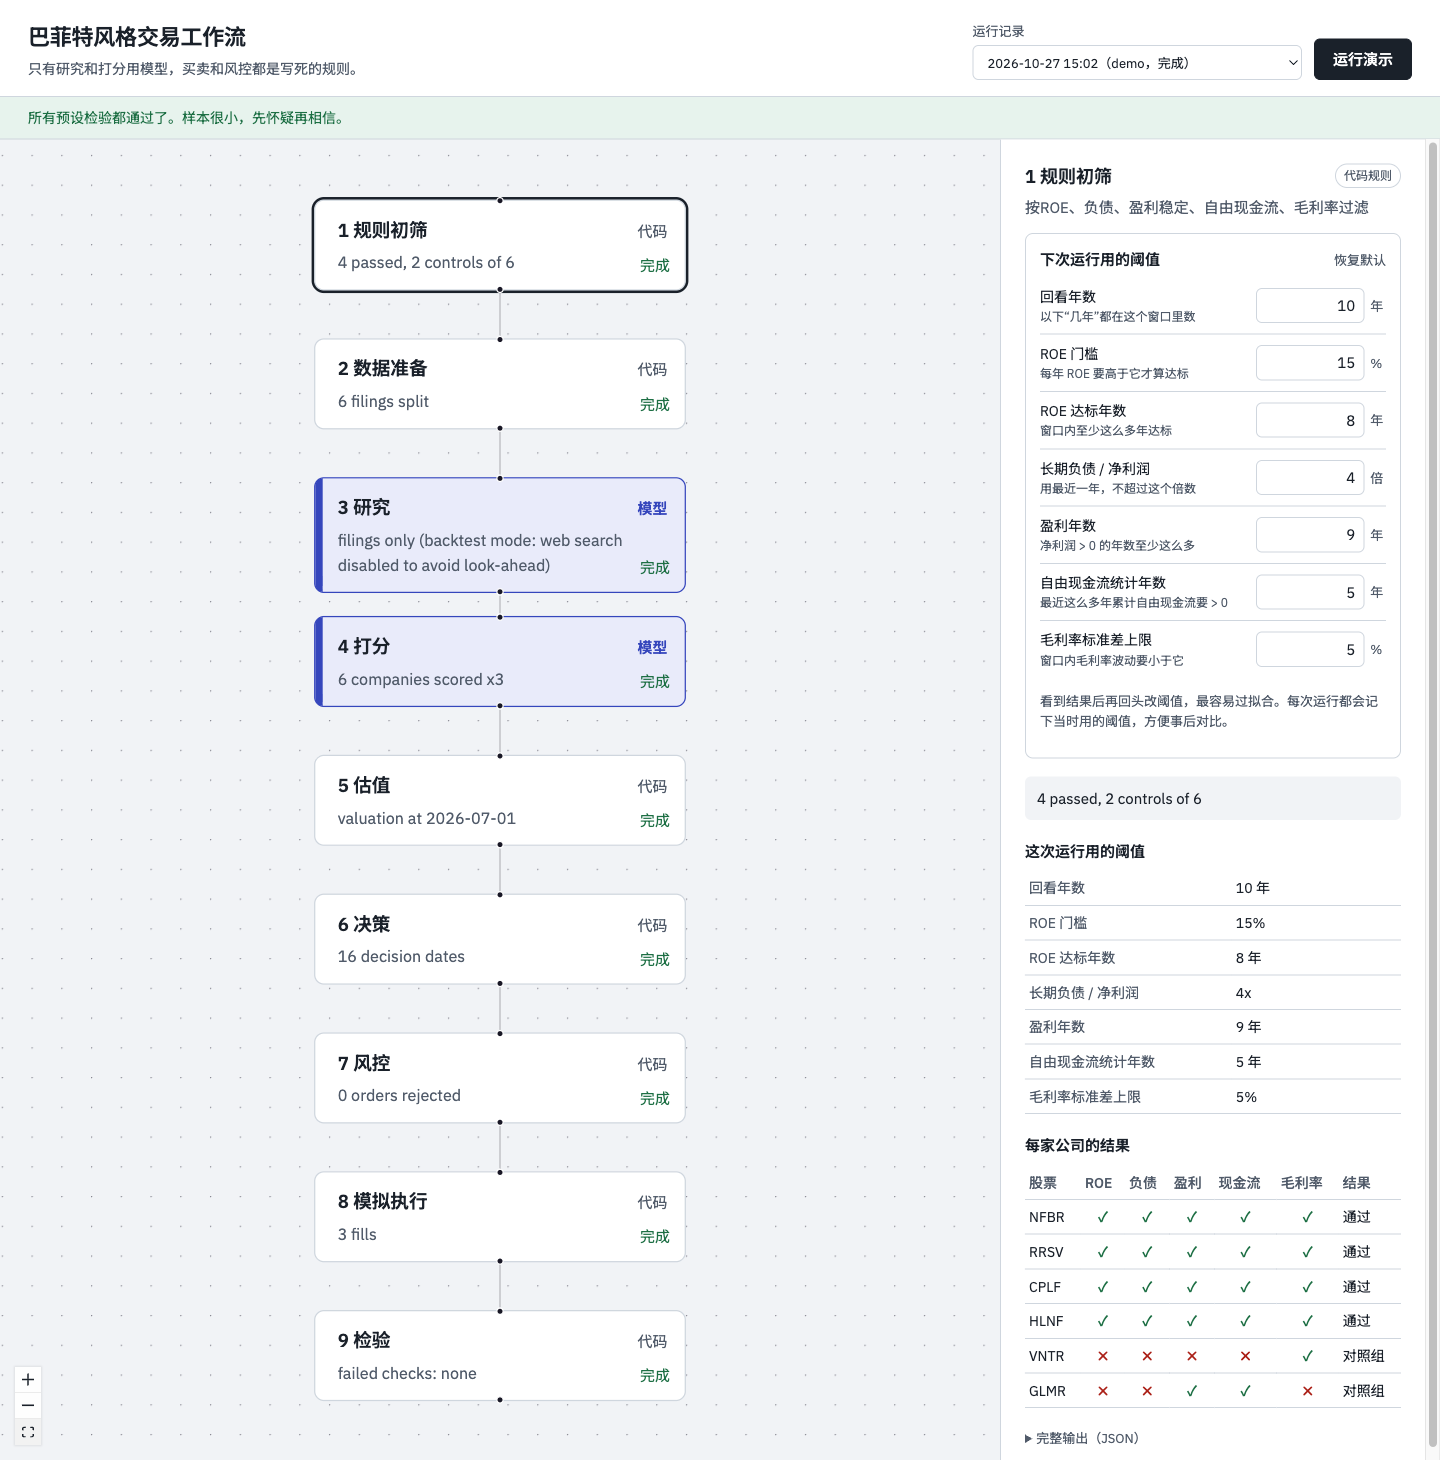
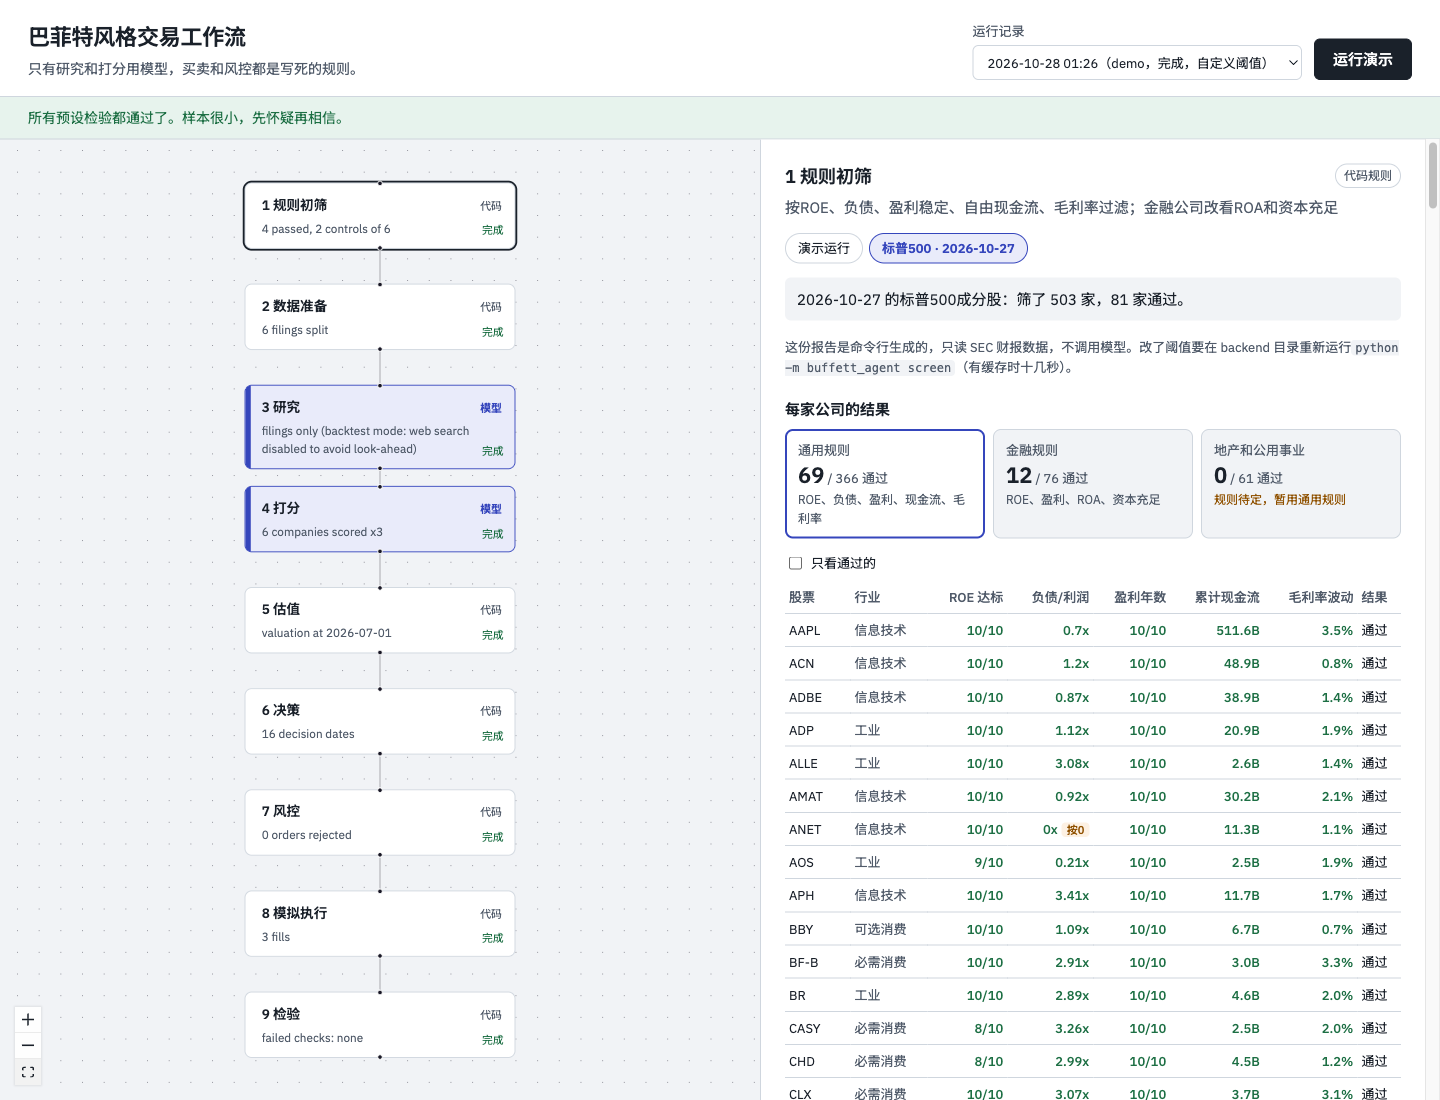
README: screenshot step 1 on the S&P 500 report

diff --git a/README.md b/README.md
@@ -3,9 +3,9 @@
 一条可检验的交易agent工作流：规则初筛 → 数据准备 → 研究 → 打分 → 估值 → 决策 → 风控 → 模拟执行 → 检验。
 只有研究和打分调用模型（DeepSeek），买卖和风控全部是写死的代码规则，每一步的输入输出都存档。
 
-![工作流界面：左边是9步画布，靛蓝色是调用模型的步骤；右边是第1步规则初筛的阈值和每家公司的结果](docs/screenshot.png)
+![工作流界面：左边是9步画布，靛蓝色是调用模型的步骤；右边是第1步规则初筛对标普500的结果，按通用、金融、地产和公用事业三组规则分开](docs/screenshot.png)
 
-*演示数据（6家虚构公司）。右侧是第1步规则初筛：阈值可以直接改，每次运行记下用了哪组阈值，下面逐家列出每条规则过没过。点画布上任意一步都能看它的输出。*
+*右侧是第1步规则初筛跑标普500成分股（2026-10-27）的结果：503家里81家通过。不同行业用不同规则，点上面的卡片切换；格子里是实际数值，黄标表示负债是按0处理、估算或取不到的。左边画布上是一次演示运行（6家虚构公司），点任意一步都能看它的输出。*
 
 ## 快速开始（不需要网络和API密钥）
 
